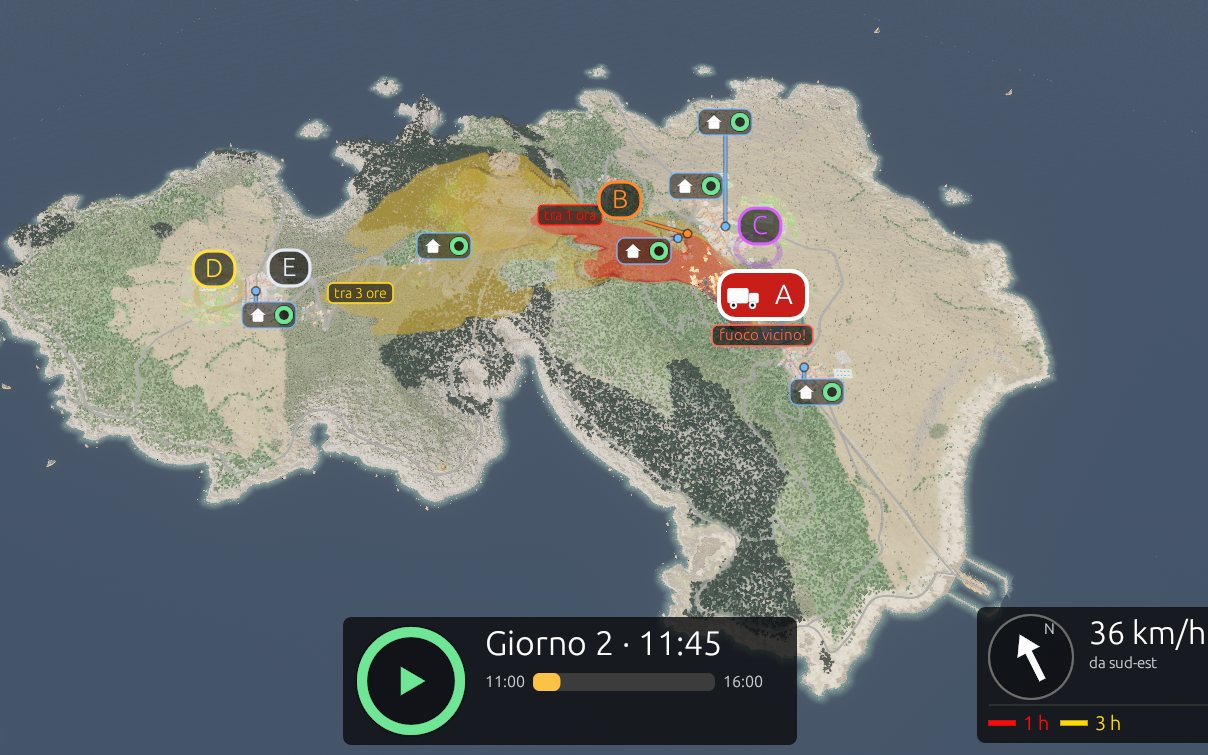
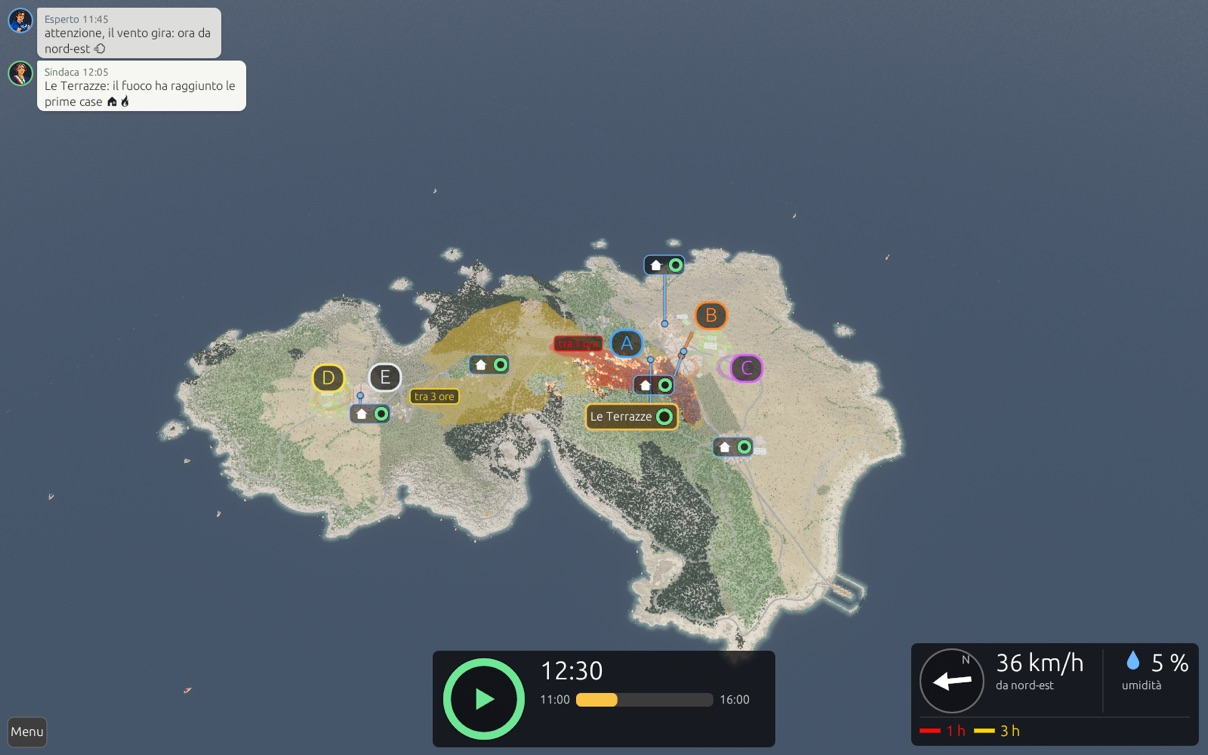
Web intro: new screenshots with the updated graphics

diff --git a/web/index.html b/web/index.html
@@ -135,7 +135,7 @@
         <div class="wrap">
           <div class="cards">
             <article class="card">
-              <img src="./img/scena-borgo.jpg" alt="Un borgo dell’isola con il fuoco che scende dalla collina" loading="lazy" width="1400" height="875">
+              <img src="./img/scena-borgo.jpg" alt="Il fuoco che avanza sulla collina sopra la strada costiera dell’isola" loading="lazy" width="1400" height="875">
               <div><span class="n">1</span><h3>Leggi l’incendio</h3><p>Vento, vegetazione e pendenza decidono dove va il fuoco. Tu devi anticiparlo.</p></div>
             </article>
             <article class="card">

diff --git a/docs/web.md b/docs/web.md
@@ -4,7 +4,7 @@ La stessa partita della versione desktop, nel browser, per chi non la scarica. S
 
 ## Pagina introduttiva (2026-10-18)
 
-`web/index.html` mostra prima una pagina HTML+CSS nello stile di cimafoundation.org (hero con una scena di incendio e un riquadro «Dal gioco», tre card, un paragrafo sulla ricerca, chiusura, crediti). Testi brevi e narrativi, senza meccaniche, durata o numeri (2026-10-19, richiesta dell'utente). `game.js` e il `.wasm` si scaricano solo quando si preme «Gioca» (`import()` dinamico in `start()`); con `?playtest=1` si salta l'intro. Dopo «Gioca» compare la schermata del titolo del gioco, con il suo «Gioca» (decisione dell'utente, 2026-10-18: non va saltata). Immagini in `web/img/`, copiate da `build_web.sh`: screenshot veri del gioco (2026-10-18, `KIOSK_SNAP`, 1600×1000): `tattica-*` con la UI tattica (ritagliati senza banner e chat, `t=45/90/120`, seme del menu), `scena-*` (`borgo`, `cicatrice`) e `hero` senza interfaccia (`ui=0,marks=0,iso=0`, `KIOSK_GFX=-dof KIOSK_TACTICAL=0 KIOSK_BOOST=0`, `t=80/140/165/170`). Provata solo come pagina statica (desktop e 390 px), non con la build wasm.
+`web/index.html` mostra prima una pagina HTML+CSS nello stile di cimafoundation.org (hero con una scena di incendio e un riquadro «Dal gioco», tre card, un paragrafo sulla ricerca, chiusura, crediti). Testi brevi e narrativi, senza meccaniche, durata o numeri (2026-10-19, richiesta dell'utente). `game.js` e il `.wasm` si scaricano solo quando si preme «Gioca» (`import()` dinamico in `start()`); con `?playtest=1` si salta l'intro. Dopo «Gioca» compare la schermata del titolo del gioco, con il suo «Gioca» (decisione dell'utente, 2026-10-18: non va saltata). Immagini in `web/img/`, copiate da `build_web.sh`: screenshot veri del gioco (rifatti il 2026-10-19 con i nuovi effetti grafici; `KIOSK_SNAP`, 1600×1000): `tattica-*` con la UI tattica (ritagliati senza banner e chat, `t=45/90/120`, seme del menu), `scena-*` (`borgo`, `cicatrice`) e `hero` senza interfaccia (`ui=0,marks=0,iso=0`, `KIOSK_GFX=-dof KIOSK_TACTICAL=0 KIOSK_BOOST=0`, `t=80/140/165/170`). Provata solo come pagina statica (desktop e 390 px), non con la build wasm.
 
 ## Dati separati dal codice e profilo grafico (2026-10-19)
 
